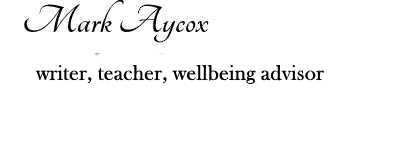
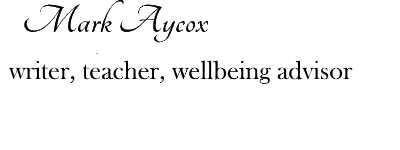
zzz

diff --git a/mybio.html b/mybio.html
@@ -91,6 +91,15 @@ margin: auto;
   background-color: none;
 }
 
+
+
+  /* p for Mark's Bio */
+.pbio{
+ text-align: left;
+  font-family: 'Baskervville', serif;
+        font-size: 18px;
+		}
+
 @media screen and (max-width: 500px) {
   .navbar a {
     float: none;
@@ -127,8 +136,60 @@ margin: auto;
 
 
 <div class="divtestfontwrapper">
-<p>This is My Bio Page<p>
 </div>
+<p class="pintro" >
+My Bio
+<br>
+<br>
+
+When I was a student at the University of Pittsburg many years ago one of the 
+books my creative writing professor required was by Studs Terkel. Working 
+investigated the meaning of work for a variety of people under different 
+life circumstances. It showed the double-edged significance that work can 
+have on people; from a thriving creativity to toiling 40-plus hours in order 
+to pick up one&#39s paycheck. This quote from the non-fiction novel stuck in 
+my mind:
+<br>
+<br>
+ 
+<q>Picasso can point to a painting…A writer can point to a book. Everybody 
+should have something to point to.</q>
+<br>
+<br>
+ 
+
+The book stirred my curiosity about the quality of work, as opposed to 
+simply weighing the salary component of it. Since that time, I&#39ve gained 
+experience as a cabinet maker&#39s helper, union carpenter, fashion model, 
+health store clerk, personal trainer, Thai massage therapist, HE/PE teacher, 
+ESL teacher, caretaker, and now author.
+<br>
+<br>
+ 
+
+Combined with extensive travel in over 30 countries, these work experiences 
+have further stirred my curious nature. This epiphany has led me to 
+settling my focus on the concept of Wellbeing. 
+<br>
+<br>
+ 
+
+While understanding Wellbeing is a huge challenge, I see it as a concept 
+that can unify many of life&#39s problematic elements. Through it, I aim to 
+know just how we are faring on the human timeline.
+<br>
+<br>
+ 
+
+What makes us laugh? What make us cry? What genuinely fulfills us, leaving 
+us content and happy? These questions easily culminate into a comprehensive 
+one: Are we a healthy species at this point in history, or a species 
+in decline?  
+<br>
+<br>
+   
+</p>
+
 
 
  </body>
